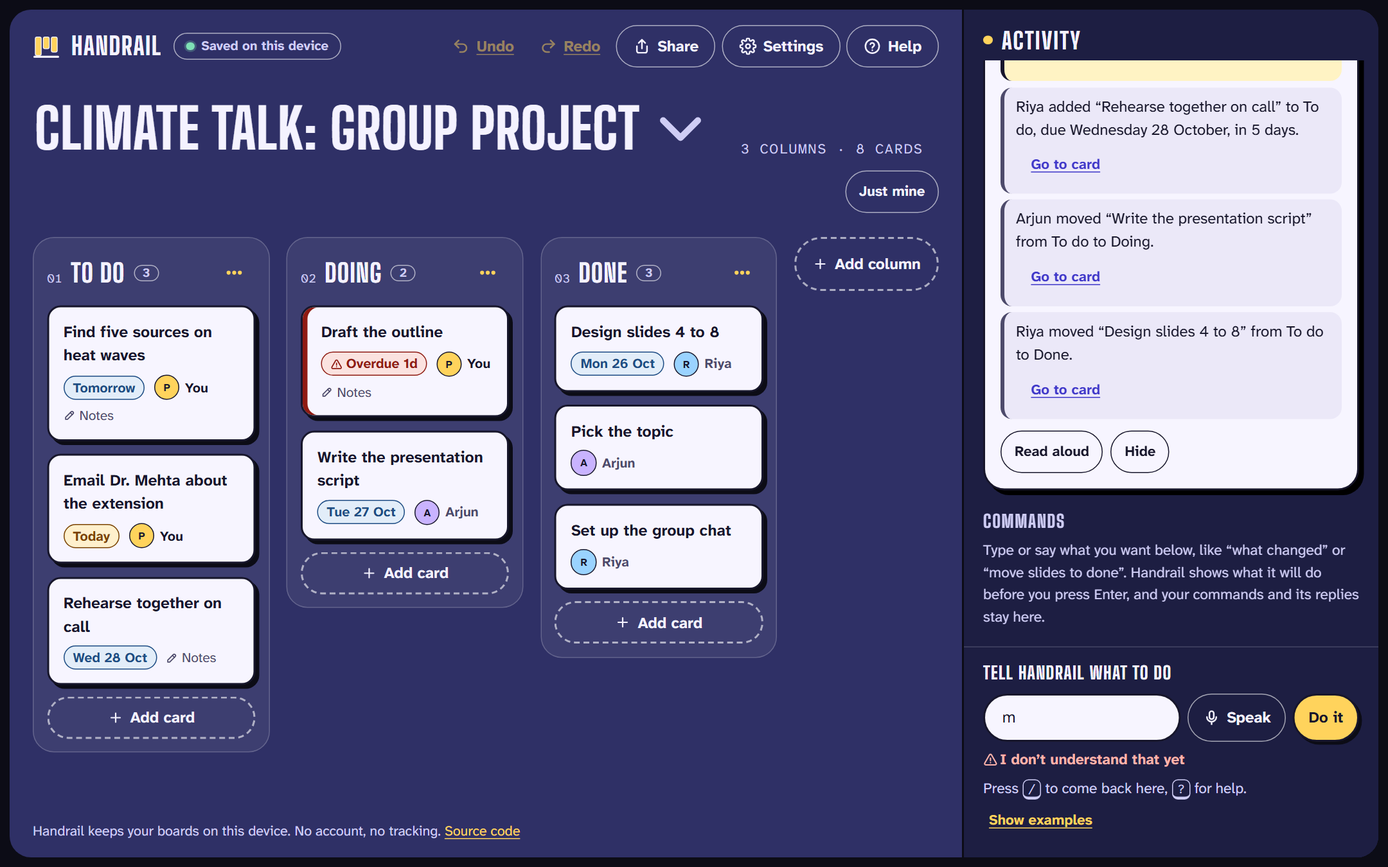
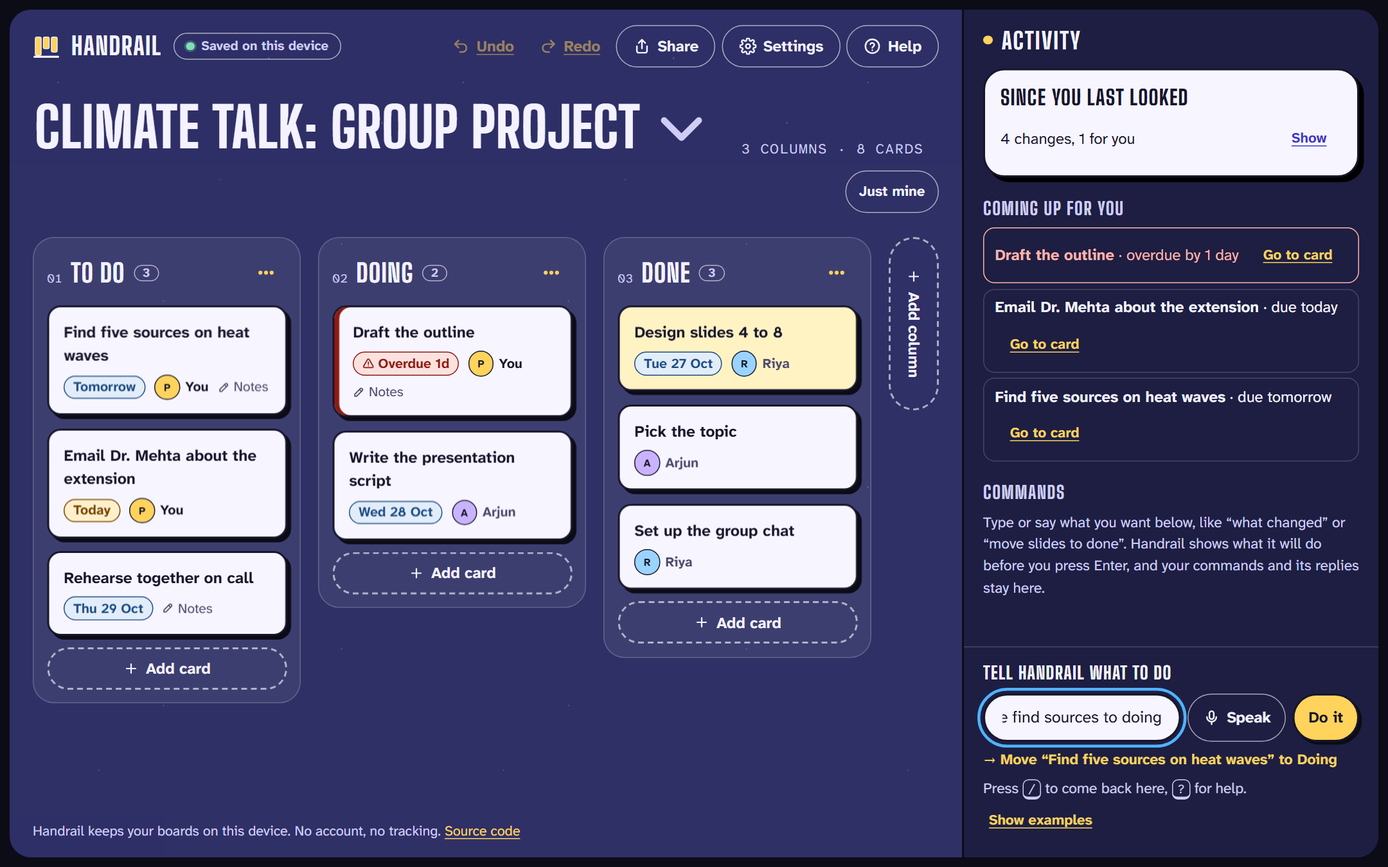
Rewrite the README and refresh the screenshots
- README: what Handrail is in one paragraph, a one-minute walkthrough, the problem with
  sources, the one loop, a feature table, Trello, accessibility, honest limitations,
  setup and project layout. Claims checked against the code and tests.
- Screenshots retaken from the current build, plus one of the quick tour.
- HOW-IT-WORKS: Trello connection and per-field credit, next step, focus-mode board,
  Home/End, and accurate testing notes.
- EVIDENCE: no link to an unpublished file.

diff --git a/README.md b/README.md
@@ -1,107 +1,127 @@
 # Handrail
 
+[![Test and deploy](https://github.com/Dakshhhhh-ops/Handrail/actions/workflows/deploy.yml/badge.svg)](https://github.com/Dakshhhhh-ops/Handrail/actions/workflows/deploy.yml)
+
 **A project board that tells you what changed, so you never have to hunt for it, with or without sight.**
 
-**Try it:** https://dakshhhhh-ops.github.io/Handrail/. It needs no account. A 1-minute scroll story opens first (once per visit), then a sample group project where teammates' changes are already waiting, so you land on the main feature. To skip the story, use [?board](https://dakshhhhh-ops.github.io/Handrail/?board).
+Handrail is a project board for group work. When your teammates change things, it tells you in a few plain sentences what changed and who did it, starting with what involves you, and then names the one card you should do next. It's built first for screen-reader users, who otherwise have to listen to every card on the board to find one change.
 
-- **Try it with your eyes closed:** https://dakshhhhh-ops.github.io/Handrail/?blindfold. The screen goes dark and Handrail talks you through finding what changed and moving a card, by keyboard only. It takes about a minute and is timed.
-- **See the main feature:** on your first visit the changes are already listed under *Since you last looked*. Try **Show me on the board** and **Before / now**. To run it again, click the board name and choose *Simulate teammates' changes*.
+**[Open Handrail](https://dakshhhhh-ops.github.io/Handrail/?board)** · **[Try it with your eyes closed](https://dakshhhhh-ops.github.io/Handrail/?blindfold)** · [How it works](docs/HOW-IT-WORKS.md) · [Evidence of the problem](docs/EVIDENCE.md)
 
-![The board with an Activity panel listing four changes since you last looked, one marked "for you", and the changed cards tagged on the board](docs/changes.png)
+No account, no install, no server. It runs in the browser and keeps your boards on your device.
 
-## One problem, one loop
+![The board with the Activity panel open: "Since you last looked: 4 changes, 1 for you", a plain-sentence summary, the next step "Draft the outline", and changed cards tagged with who changed them](docs/changes.png)
 
-Handrail does one job: **telling you what your teammates changed, when you can't scan the board.** Everything in the main app serves one loop:
+## Try it in one minute
 
-1. **Changes arrive:** from the group's Trello board each time Handrail opens, or from a teammate's link.
-2. **Handrail says what changed,** in plain sentences, with what involves you first.
-3. **You know your next step, and act on it without dragging:** Handrail names the one card to do next, and you use keys, a menu, or a typed or spoken sentence. Undo anything.
+1. **[Open the board](https://dakshhhhh-ops.github.io/Handrail/?board).** A short tour opens first. On a first visit, Priya's teammates have already changed her board, so *Since you last looked* lists four changes, one of them for her.
+2. **Press Show me on the board**: each teammate's cursor flies to the cards they changed. **Before / now** flips the board back to how it looked.
+3. **Press `/` and type** `what next`, then `move find sources to doing`. Handrail shows what it understood before you press Enter. **Ctrl+Z** undoes it.
+4. **[Try it with your eyes closed](https://dakshhhhh-ops.github.io/Handrail/?blindfold)**: the screen goes dark, the mouse stops working, and Handrail talks you through three small tasks. It takes about a minute and is timed.
 
-The supporting pieces exist only because the loop needs them. The CRDT merge lets two copies of a board be compared and combined. Keyboard moves make the board usable at all without a mouse. Trello import means nobody has to switch tools.
-
-**Kept out of the main app on purpose.** Live sessions, CSV import and export, and 3D card tilt are in **Settings → Labs**, off by default. They work, but they aren't the point.
+Without `?board`, the site opens with a one-minute scroll story first (once per visit).
 
 ## The problem
 
-In a group project, the hard part is often not doing your own task. It is **finding out what everyone else changed** since you last looked. On Trello, Notion or Jira you find out by scanning: you glance across the columns and notice that "Slides" moved to Done, or that a new card has your name on it. Activity feeds exist, but they are long lists of raw events, and written summaries are a paid AI add-on. Scanning is slow for everyone, and for a screen-reader user it means stepping through every card in every column to spot one difference.
+In a group project, the hard part is often not your own task. It's **finding out what everyone else changed** since you last looked. On a shared board, sighted teammates glance across the columns and spot it in a second. Activity feeds exist, but they list raw events, newest first, for the whole board.
 
-Handrail does the scanning for you. When a teammate sends their link, it writes every change as a plain sentence, puts the ones that involve you first, and tags those cards on the board. It's free, private and screen-reader-first.
+For a blind student using a screen reader, there is no glance. Finding one change means listening to every card in every column, one at a time. And moving a card usually means dragging it, which a screen reader can't do. WCAG 2.2 makes this a requirement: [2.5.7 Dragging Movements](https://www.w3.org/WAI/WCAG22/Understanding/dragging-movements.html) says anything done by dragging must also be possible without dragging.
 
-Moving cards without a mouse is not new (GitHub Projects and Jira support keyboard moves). Handrail includes it because the same people who can't scan a board often can't drag one either:
+This isn't hypothetical. Trello has open NVDA bugs with "no known workaround", Jira's own tracker says its board's drag-and-drop "is inaccessible to screen reader users", and research on blind people in shared tools recommends "accessible awareness" of what others changed. The sources are in [docs/EVIDENCE.md](docs/EVIDENCE.md).
 
-- **Blind and low-vision students**, who use screen readers or magnifiers.
-- **Students with motor impairments** (tremor, RSI, one-handed use) who can't hold a mouse button steady while dragging.
-- **Keyboard-only and voice-control users.**
+**Who it's for:** Priya, a blind student working with the NVDA screen reader on a group project, and her teammates Riya and Arjun, who use a mouse. Also students with motor impairments who can't drag reliably, and keyboard-only and voice-control users.
 
-WCAG 2.2 covers this in [2.5.7 Dragging Movements](https://www.w3.org/WAI/WCAG22/Understanding/dragging-movements.html): anything done by dragging must also be possible without dragging.
+## One problem, one loop
 
-This isn't hypothetical. Trello has open NVDA bugs with "no known workaround", Jira's tracker says its board's drag-and-drop "is inaccessible to screen reader users", and research on blind people in shared tools recommends "accessible awareness" of what others changed. Sources: [docs/EVIDENCE.md](docs/EVIDENCE.md).
+Handrail does one job: **telling you what your teammates changed, when you can't scan the board.** The main app is one loop:
 
-**Handrail's user:** Priya, a blind student working with NVDA on a group project. Her teammates Riya and Arjun use the board with a mouse.
+1. **Changes arrive:** from the group's Trello board each time Handrail opens, or from a teammate's link.
+2. **Handrail says what changed,** in plain sentences, with what involves you first.
+3. **You get one clear next step, and act on it without dragging:** keys, a menu, or a typed or spoken sentence. Anything can be undone.
 
-### Nobody has to switch from Trello
-
-Priya's group already lives in Trello, and they won't move for one person. They don't have to. In **Boards & files → Connect Trello**, Priya signs in to Trello once (read-only) and follows the group's board. Every time she opens Handrail, it reads the board from Trello and tells her what changed **in Trello** since she last looked, credited from Trello's own activity log: *"Riya Sharma moved 'Write method' from To Do to Doing."* Nothing to export, and her teammates never change tools. (Importing a Trello JSON export still works too, for anyone without a connection.)
-
-Trello ids are kept, so a re-import updates the same board instead of making a copy. Trello's last export is stored as its own copy of the document, and a re-import is merged like a teammate's link. Only what changed in Trello is applied. Cards Priya added or moved in Handrail in between stay as she left them, unless Trello changed the same card, in which case Trello's newer change wins and she is told.
+The rest exists because the loop needs it: the merge lets two copies of a board be combined without losing work, keyboard moves make the board usable without a mouse, and Trello support means nobody has to switch tools. Extras that aren't part of the loop (live sessions, CSV import and export, 3D card tilt) are in **Settings → Labs**, off by default.
 
 ## What it does
 
 | Instead of… | In Handrail you… |
 |---|---|
-| Scanning the board for changes | Open your teammate's link and see or hear **"Since you last looked: Riya assigned 'Email Dr. Mehta' to you. Arjun moved 'Write the script' to Doing…"**. Changes that involve you come first, and changed cards are tagged on the board ("Riya · moved") |
-| Dragging a card | Type or say **"move find sources to doing"** (Handrail shows what it will do before you press Enter), press a **number key** (3 sends it to column 3), or **pick it up with Space** and move it with the arrow keys |
-| Reading every card to find deadlines | Ask **"what's due this week"**, **"anything overdue"** or **"my tasks"**, or press **Just mine** to see only your cards and the changes that involve you |
+| Scanning the board for changes | Hear or read **"4 changes since you last looked, 1 for you. Riya gave you 'Email Dr. Mehta about the extension'…"**. Changes that involve you come first, and changed cards are tagged on the board ("Riya · moved") |
+| Working out what to do first | Get **one next step** after every summary: *"Your next step: 'Draft the outline'. It's overdue by 1 day."* Ask **"what next"** any time. It picks your most overdue card, then one a teammate just gave you, then the one due soonest |
+| Sitting through a long readout | Hear the count and the first sentence. Say **"more"** for the rest, or **"repeat"** to hear the last message again |
+| Dragging a card | Type or say **"move find sources to doing"**, press a **number key** (3 sends a card to column 3), or **pick it up with Space** and move it with the arrow keys |
+| Reading every card to find deadlines | Ask **"what's due this week"**, **"anything overdue"** or **"my tasks"**, or press **Just mine** |
 | Fiddly date pickers | Type **"due next friday"**, **"in 3 days"** or **"oct 30"** |
-| Working out what to do first | Every summary ends with **one next step**: *"Your next step: 'Draft the outline'. It's overdue by 1 day."* Ask **"what next"** any time. It picks the most overdue card, then one a teammate just gave you, then the one due soonest |
-| Sitting through a long readout | Hear the count and the first sentence; say **"more"** for the rest, or **"repeat"** to hear the last message again |
-| Hoping you didn't break something | **Undo** any change with Ctrl+Z, the Undo button, or by saying "undo" |
-| Spotting what moved by eye | **Before / now** flips the board to how it looked when you last saw it; flip back and every changed card glides to its new place. **Show me on the board** sends each teammate's name-tagged cursor to the cards they changed |
+| Worrying you broke something | **Undo** any change with Ctrl+Z, the Undo button, or by saying "undo". The Delete key asks for a second press first |
+| Spotting what moved by eye | **Before / now** flips the board to how you last saw it. **Show me on the board** sends each teammate's name-tagged cursor to the cards they changed |
+| Learning a new tool | A **quick tour** on the first visit shows the main parts, one highlighted step at a time. It's in Help any time |
 
-| Command box | Keyboard pick-up | Action menu instead of dragging |
+| Typed command, with a preview | Keyboard pick-up | Menu instead of dragging |
 |---|---|---|
-| ![Command box replying "Moved to Doing"](docs/command.png) | ![A picked-up card with a dashed outline and key hints](docs/keyboard.png) | ![Card action menu with Move to, Order and Card buttons](docs/menu.png) |
+| ![The command box with "move find sources to doing" typed, and the preview "Move 'Find five sources on heat waves' to Doing" underneath](docs/command.png) | ![A card picked up with Space, shown with a dashed outline, and a bar of key hints: arrows move, Enter drops, Escape cancels](docs/keyboard.png) | ![The card menu: Move to To do, Doing or Done; move up or down; edit, read aloud or delete](docs/menu.png) |
 
-| Paper theme | Phone |
-|---|---|
-| ![The board in the cream Paper theme with the night-blue Activity panel](docs/contrast.png) | ![Board on a phone, columns stacked, command box docked at the bottom](docs/phone.png) |
+| Quick tour | Light theme | Phone |
+|---|---|---|
+| ![The quick tour, step 2 of 5, "See what changed", with the Since you last looked panel highlighted](docs/tour.png) | ![The board in the light theme with the dark Activity panel](docs/contrast.png) | ![The board on a phone: columns stacked, the command box docked at the bottom](docs/phone.png) |
+
+## Works with Trello
+
+Priya's group already lives in Trello, and they won't move for one person. They don't have to.
+
+- **Connect once:** in **Boards & files → Connect Trello**, Priya signs in with Trello's own read-only sign-in and follows the group's board. Every time she opens Handrail, it reads the board from Trello and lists what changed there since she last looked.
+- **Credited to the right person:** each kind of change (a move, a rename, a new due date, an assignment) is credited to whoever made it in Trello, from Trello's activity log: *"Riya Sharma moved 'Write the method' from To do to Doing."* Comments don't count, so a comment can't take credit for someone else's move.
+- **Her edits are kept:** Trello's last copy of the board is stored separately and merged like a teammate's link, so cards Priya added or moved in Handrail stay as she left them, unless the same card changed in Trello.
+- **No connection needed to try it:** importing a Trello JSON export works too, and re-importing a newer export lists what changed.
+
+## Accessibility
+
+- Built to **WCAG 2.2 AA**. An automated **axe-core** audit runs on every push, in three themes, in every dialog and at phone width, with zero violations. Layout tests check 200% text at phone, tablet and laptop widths.
+- **Tested with the real NVDA screen reader.** We recorded Handrail with NVDA and read its speech log line by line. That found five problems the automated audit had missed, and all are fixed.
+- **One keyboard model everywhere:** the whole board is one Tab stop, arrow keys move between cards, Space picks a card up, Enter opens its menu, and number keys send it to a column. The board is marked as an application, so screen readers switch to focus mode on a card. Every action is announced through one live region.
+- **Reading support:** a high-contrast theme, text up to 200%, the Atkinson Hyperlegible and OpenDyslexic fonts, relaxed spacing, a stacked layout for screen magnifiers, and replies read aloud for people who don't use a screen reader.
+- **Motion with a purpose, and an off switch:** cards glide when they move so sighted teammates can see what changed. Everything turns off with the system's reduced-motion setting or Handrail's own setting.
 
 ## Limitations
 
-- **Not yet tested with blind or motor-impaired users.** We tested it ourselves with NVDA (we are sighted), which found five problems the automated audit missed; all are fixed. Five sighted classmates also tried the eyes-closed challenge on 24 October 2026; we didn't record their times. The design follows WCAG 2.2 and the WAI-ARIA Authoring Practices. That is still not the same as blind users saying it works. The next step is sessions with screen-reader users.
-- **Without Trello, getting changes in takes a step.** A teammate has to send a newer link. Nobody sends a link after every edit, so this is a catch-up, not a live feed. Groups on Trello don't need the step: Handrail reads their board each time it opens.
-- **Screen reader modes.** The board is marked as an application, so screen readers should switch to focus mode when you land on a card, and arrows, Space and number keys reach Handrail. This follows the documented behaviour of NVDA and JAWS but hasn't been re-recorded with NVDA since the change. If a screen reader stays in browse mode, it keeps those keys for itself. Enter on a card (the action menu) and the command box work in either mode, and Help explains this.
-- **Share links grow with the board.** The sample board's link is about 2,000 characters, around Discord's message limit. Long links work in email and most chat apps, and "Download backup" works for any size.
-- **Live sessions need both people online at once**, and use public relays to connect. Some strict school or office networks block peer-to-peer connections; share links still work there. There is no always-on sync server, so a teammate who is offline catches up when they open a newer link.
-- **Merging picks a winner per field.** If two people edit the same field at the same moment, one version is kept (the later one) and the other person is told; the text isn't combined.
-- **Voice input** depends on the browser's speech recognition (Chrome and Edge, online). Typing commands works everywhere.
+- **Not yet tested with blind or motor-impaired users.** We tested it ourselves with NVDA (we are sighted). Five sighted classmates also tried the eyes-closed challenge on 24 October 2026; we didn't record their times. That is not the same as blind users saying it works. Sessions with screen-reader users are the next step.
+- **Screen-reader focus mode isn't re-verified.** The board is marked as an application so screen readers switch to focus mode on a card; this follows the documented behaviour of NVDA and JAWS but hasn't been re-recorded with NVDA since the change. In browse mode, Enter on a card (the menu) and the command box still work.
+- **Trello is read-only and checked when Handrail opens.** It isn't a live feed, and changes made in Handrail don't go back to Trello. Changes that Trello's activity log doesn't cover are credited to "Someone in Trello". Handrail has one assignee per card, so a Trello card with several members shows the first. Trello's sign-in token lasts 30 days.
+- **Without Trello, changes arrive by link.** A teammate has to send a newer link, so it's a catch-up rather than a live feed. Live sessions (in Labs) need everyone online at once and use public relays, which some school networks block.
+- **Merging picks a winner per field.** If two people edit the same field at the same moment, the later edit is kept and the other person is told; the text isn't combined.
+- **Share links grow with the board.** The sample board's link is about 2,000 characters. Long links work in email and most chat apps, and **Download backup** works for any size.
+- **Voice input** needs a browser with speech recognition (Chrome or Edge, online). Typing works everywhere.
 - **English only** for commands and dates.
-- **Trello is read-only, and checked when Handrail opens.** It isn't a live feed, and changes made in Handrail don't flow back to Trello. The connection needs a Trello API key built into the app (or pasted in once), and Trello's sign-in token lasts 30 days. Changes Trello's activity log doesn't cover are credited to "Someone in Trello", and changes made in Handrail don't flow back to Trello. Handrail has one assignee per card, so a Trello card with several members shows the first.
 
 ## Run it locally
+
+Needs Node.js 24.
 
 ```bash
 npm install
 npm run dev          # http://localhost:5173
-npm test             # 136 unit and property-based tests
-npm run test:e2e     # 62 browser tests, including the axe accessibility audit
+npm test             # 136 unit and property-based tests (Vitest, fast-check)
+npm run test:e2e     # 62 browser tests (Playwright), including the axe accessibility audit
 npm run build        # static site in dist/
 ```
 
-Every push to `main` runs type-checking and both test suites, then deploys to GitHub Pages ([workflow](.github/workflows/deploy.yml)).
+Every push to `main` type-checks, runs both test suites, then deploys to GitHub Pages ([workflow](.github/workflows/deploy.yml)). To build with Trello's direct connection turned on, set `VITE_TRELLO_KEY` to a Trello API key; without one, the app asks for a key when you connect.
+
+```
+src/
+  model/       board logic with no UI: commands, dates, the CRDT merge, the summary, next step, Trello import
+  store/       app state, saving, merging teammates' and Trello's changes
+  components/  the board, Activity panel, command box, dialogs, quick tour, eyes-closed challenge
+  lib/         live sessions, Trello connection, motion, bounded decompression
+tests/
+  unit/        Vitest and fast-check
+  e2e/         Playwright and axe-core
+```
 
 ## How it works
 
-The details are in [docs/HOW-IT-WORKS.md](docs/HOW-IT-WORKS.md):
+The technical detail is in **[docs/HOW-IT-WORKS.md](docs/HOW-IT-WORKS.md)**: how sharing and merging work without a server, the keyboard reference, the architecture, testing, and privacy.
 
-- [Built for many ways of working](docs/HOW-IT-WORKS.md#built-for-many-ways-of-working): screen readers, keyboard, voice, low vision and dyslexia, motion
-- [How sharing works (no server)](docs/HOW-IT-WORKS.md#how-sharing-works-no-server): share links and the CRDT merge
-- [Keyboard](docs/HOW-IT-WORKS.md#keyboard): every shortcut
-- [How it's built](docs/HOW-IT-WORKS.md#how-its-built): architecture, merging, undo, the digest, testing
-- [Privacy](docs/HOW-IT-WORKS.md#privacy)
-
-Evidence that the problem is real (Trello and Jira bug reports, research, survey numbers) is in [docs/EVIDENCE.md](docs/EVIDENCE.md).
+In short: every board is a **conflict-free replicated document (CRDT)**, so copies can be edited separately and merged in any order without losing anyone's work. Commands and summaries come from a **hand-written parser, not AI**, so they're instant, work offline, and the same changes always give the same words.
 
 ## License
 
-MIT
+[MIT](LICENSE)

diff --git a/docs/HOW-IT-WORKS.md b/docs/HOW-IT-WORKS.md
@@ -5,13 +5,14 @@ The technical detail behind the [README](../README.md).
 ## Built for many ways of working
 
 - **Screen readers:** every card has a full spoken name ("Draft the outline, overdue by 1 day, assigned to you, has notes. 1 of 1 in Doing"). Every action is confirmed through a live region. Dialogs are native `<dialog>` elements, so focus is trapped and returned properly.
-- **Keyboard:** one tab stop for the whole board, arrow-key navigation between cards, single-key shortcuts, and skip links. See the keyboard table under Help.
+- **Keyboard:** one tab stop for the whole board, arrow-key navigation between cards, single-key shortcuts, and skip links (the first one jumps straight to unread changes). The board is marked as an application, so screen readers switch to focus mode on a card and the keys reach Handrail. See the keyboard table below, or press `?`.
 - **Voice:** a Speak button, in browsers with speech recognition (Chrome, Edge). Card-name matching tolerates recognition slips: "lab raport" still finds "Lab report".
 - **Low vision and dyslexia:** high-contrast theme, text up to 200%, Atkinson Hyperlegible or OpenDyslexic fonts, relaxed spacing, a stacked layout for screen magnifiers, and replies read aloud for people who don't use a screen reader.
 - **Mouse users:** normal drag-and-drop still works, so mixed groups can share one board.
 - **Motion with a purpose:** cards glide when they move (so sighted teammates see what changed), and the front page is a 1-minute scroll story with a 3D board (GSAP, ScrollTrigger, Lenis). It shows once per visit, and "Open the board" is the first thing you reach by Tab. All of it turns off with the system's reduced-motion setting or Handrail's own "Turn off animations", and the story has a Pause button.
 - **Works offline and installs like an app:** a service worker keeps a copy, so once opened Handrail works without a connection.
-- **Groups already on Trello:** import a Trello JSON export, then re-import newer exports to hear what changed in Trello (see above). Export as a backup or as plain text (CSV is in Labs).
+- **Groups already on Trello:** connect once (read-only) and Handrail reads the board each time it opens, or import a Trello JSON export. Export as a backup or as plain text (CSV is in Labs).
+- **First-time visitors:** a five-step quick tour highlights each part of the screen. It's a native dialog, so it works by keyboard and screen reader, and it's in Help any time.
 
 
 ## How sharing works (no server)
@@ -26,11 +27,14 @@ Handrail has no backend and no accounts. Every board is a **conflict-free replic
 
 To try it without two devices, click the board name, then choose **Simulate teammates' changes**.
 
+**Trello** works the same way. Handrail keeps Trello's last copy of the board as its own document. When it reads the board again (through the read-only connection, or a newer export), it commits Trello's changes to that copy, credited per field to whoever made them in Trello's activity log, and merges it like a teammate's link. Cards that didn't move in Trello keep their positions, so edits made in Handrail survive.
+
 ## Keyboard
 
 | Key (on a card) | Action |
 |---|---|
 | Arrow keys | Move between cards |
+| Home / End | First / last card in the column |
 | Enter | Action menu (move to a column, reorder, edit, delete) |
 | Space | Pick up. Then arrows move it, Enter drops it, Escape cancels |
 | 1–9 | Send to that column |
@@ -49,7 +53,8 @@ flowchart LR
   DOC --> mat["materialize()"] --> UI
   LINK["Share link<br/>#board=…"] -- "validate · merge" --> DOC
   LIVE["Live session<br/>WebRTC peers"] <-- "merge · publish" --> DOC
-  DOC -- "seen vs now" --> DIFF["diff + conflicts"] --> SUM["digest:<br/>“Riya moved 2 cards…”"] --> SR["Activity panel<br/>+ screen reader"]
+  TRELLO["Trello board<br/>read-only API or export"] -- "commit to Trello's copy · merge" --> DOC
+  DOC -- "seen vs now" --> DIFF["diff + conflicts"] --> SUM["digest + next step:<br/>“Riya moved 2 cards…”"] --> SR["Activity panel<br/>+ screen reader"]
 ```
 
 - **React 18 + TypeScript + Vite**, a static site with no backend. `src/model/` is plain TypeScript with no UI code, so it is unit-tested.
@@ -57,7 +62,9 @@ flowchart LR
   - Card order uses **fractional indexing** (copied from rocicorp/fractional-indexing, the approach Figma and Linear describe). A commit keeps the keys of the longest increasing run of cards that didn't move, so a move rewrites one register.
   - `findConflicts` spots fields two people changed without seeing each other's write, so the app can explain what it kept.
 - **Per-action undo** (`revert.ts`). Undo puts back only what your action changed, and only where the board still shows your result, so a teammate's edits that merged in since are kept. Undoing a delete brings the card back with its newest content, including edits a teammate made after you deleted it, and Escape while carrying a card puts back only that card.
-- **The digest** (`diff.ts`, `summary.ts`). It compares the board you last saw with the merged one, credits each change from the register's author, and folds the changes into short sentences grouped by person, with what involves you first.
+- **The digest** (`diff.ts`, `summary.ts`). It compares the board you last saw with the merged one, credits each change from the register's author, and folds the changes into short sentences grouped by person, with what involves you first. The spoken version gives the count and the first sentence; "more" reads the rest.
+- **The next step** (`next.ts`). One of your open cards, chosen deterministically: the most overdue, then one a teammate just gave you, then the one due soonest.
+- **Trello** (`importers.ts`, `lib/trello.ts`). Trello's ids are kept, so a newer copy maps onto the same board. Each change is credited from Trello's activity log by kind (move, rename, due date, assignment, notes, archive); comments are ignored. The connection uses Trello's own token sign-in with read-only scope, straight from the browser.
 - **Live sync** (`lib/live.ts`). Trystero over Nostr relays, loaded only when a session starts. The protocol is: say hello, send your document when someone joins, and send it again after each of your own edits (debounced). Version vectors stop echoes.
 - **Plain-language commands** (`commands.ts`, `match.ts`, `dates.ts`, `preview.ts`). A deterministic parser with no AI service: offline, instant, private and predictable.
   - Fuzzy matching tolerates speech-recognition slips ("lab raport").
@@ -69,8 +76,9 @@ flowchart LR
   - Clocks and version vectors are derived from the writes themselves, and implausible clocks are refused.
 - **Testing:** 136 Vitest tests and 62 Playwright tests.
   - Property-based tests (fast-check) generate hundreds of random three-person edit-and-swap histories and check that everyone ends up with the same, well-formed board.
-  - Browser tests cover two people merging concurrent edits, keyboard-only use, and a real two-browser live session.
-  - **axe-core** checks WCAG 2.2 AA in light, dark and high-contrast themes, every dialog, phone width and 200% text, with zero violations.
+  - Browser tests cover two people merging concurrent edits, keyboard-only use, the Trello connection (against a fake Trello), and a real two-browser live session (run locally; it needs the public relays, so CI skips it).
+  - **axe-core** checks WCAG 2.2 AA in light, dark and high-contrast themes, every dialog and at phone width, with zero violations. Layout tests check 200% text at 320, 768 and 1280 px.
+  - **NVDA:** we recorded the app with the real NVDA screen reader and read its speech log; that found five problems the audit missed, all fixed.
 
 ## Privacy
 

diff --git a/docs/EVIDENCE.md b/docs/EVIDENCE.md
@@ -1,6 +1,6 @@
 # Evidence: what screen-reader users report about today's tools
 
-These are published sources about the problem Handrail works on. They describe existing tools (Trello, Jira, collaborative editors), not Handrail. Nobody quoted here has tested Handrail. For tests of Handrail itself, see [USER-TESTS.md](USER-TESTS.md).
+These are published sources about the problem Handrail works on. They describe existing tools (Trello, Jira, collaborative editors), not Handrail. Nobody quoted here has tested Handrail. For what testing of Handrail itself has and hasn't been done, see [Limitations](../README.md#limitations) in the README.
 
 ## 1. Blind users need to know what others changed
 
